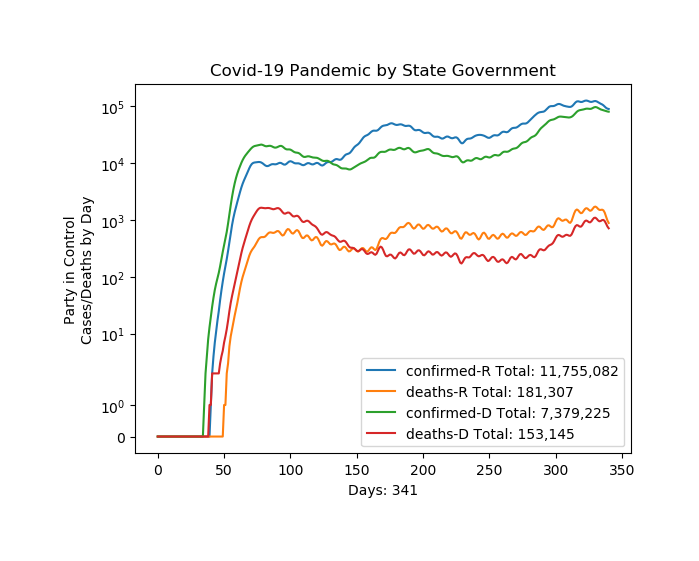
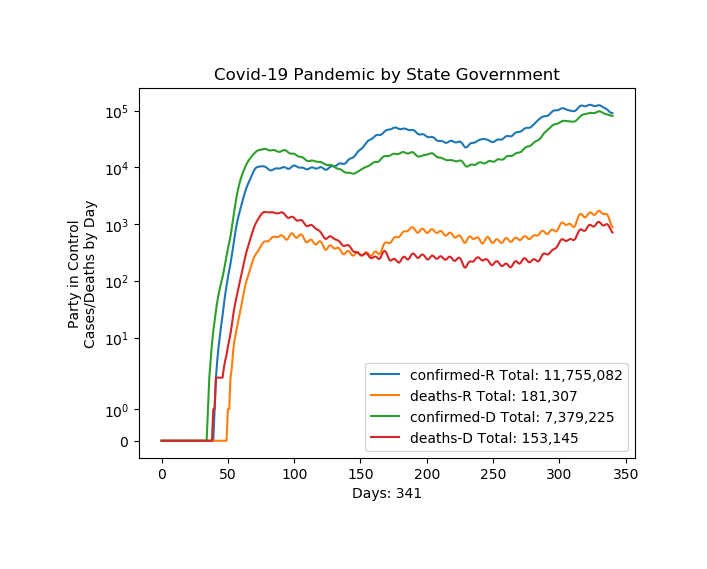
Upload Daily

Changed region(s): [[0.0901, 0.0909, 0.9013, 0.8788]]

diff --git a/CovidDLModelUSStates_v2.py b/CovidDLModelUSStates_v2.py
@@ -22,10 +22,10 @@ import random
 
 from us_state_abbrev import us_state_abbrev
 
-plotResults = True
+plotUiResults = True
 if len(sys.argv) > 1:
     print('Command Line run')
-    plotResults = False
+    plotUiResults = False
 
 g = git.cmd.Git('./COVID-19')
 print(g.pull())
@@ -320,7 +320,8 @@ class CovidCountryRegion:
     def plotResults(self, keys, data=['confirmed', 'deaths'], num=5,
                     yscale='log',
                     title='Covid-19 - Patient 0: January 21, 2020',
-                    smoothed=False, legendText='Aggregated Growth', filterLabel='New'):
+                    smoothed=False, legendText='Aggregated Growth',
+                    filterLabel='New'):
         """Plot the results for the period."""
         handles = []
         pos = 0
@@ -353,8 +354,11 @@ class CovidCountryRegion:
         plt.savefig(plotPath + 'daily_State{}.png'.format(legendText.replace(' ', '')),
                 bbox_inches="tight",
                 pad_inches=0.5 + random.uniform(0.0, 0.25))
-        if plotResults is True:
-            plt.show()
+        # if plotUiResults is True:
+        plt.show(block=False)
+        plt.clf()
+        plt.cla()
+        plt.close('all')
 
     def importCsv(self, file, index=[], rename=[], exclude=[]):
         """Import csv data based on index, column(s) to rename/exclude."""
@@ -431,9 +435,11 @@ def statePlot(states=[], key='confirmedNew', smoothed=False, name="default"):
     plt.savefig(plotPath + 'daily_State{}.png'.format(name.replace(' ', '')),
                 bbox_inches="tight",
                 pad_inches=0.5 + random.uniform(0.0, 0.25))
-    if plotResults is True:
-        plt.show()
-
+    # if plotUiResults is True:
+    plt.show(block=False)
+    plt.clf()
+    plt.cla()
+    plt.close('all')
 
 def statGovPlot(title, yscale, smoothed=False, name='Gov'):
     """Plot summary by state government."""
@@ -456,9 +462,10 @@ def statGovPlot(title, yscale, smoothed=False, name='Gov'):
     plt.savefig(plotPath + 'daily_State{}.png'.format(name.replace(' ', '')),
                 bbox_inches="tight",
                 pad_inches=0.5 + random.uniform(0.0, 0.25))
-    if plotResults is True:
-        plt.show()
-
+    plt.show(block=False)
+    plt.clf()
+    plt.cla()
+    plt.close('all')
 
 if __name__ == "__main__":
     covidDf = CovidCountryRegion(config)
@@ -468,6 +475,9 @@ if __name__ == "__main__":
     endTime = datetime.today()
     print("Start:", startTime.strftime("%d/%m/%Y %H:%M:%S"))
     print("End:", endTime.strftime("%d/%m/%Y %H:%M:%S"))
+    # print('Plot State Government')
+    # statGovPlot('Covid-19 Pandemic by State Government', yscale='symlog',
+    #             smoothed=True)
     print('Plot Aggregate')
     covidDf.plotResults(['currentAggregate'],
                         data=['confirmedNew', 'deathsNew'],
@@ -479,16 +489,13 @@ if __name__ == "__main__":
                         filterLabel='-confirmedNew')
     print('Plot Target States')
     statePlot(['Arizona', 'New Jersey', 'Tennessee', 'South Carolina',
-               'Georgia', 'Pennsylvania', 'Virginia', 'Maryland', 'Michigan'],
+                'Georgia', 'Pennsylvania', 'Virginia', 'Maryland', 'Michigan'],
               key='confirmedNew', smoothed=True, name='Focused')
     statePlot(['North Dakota', 'South Dakota', 'Iowa', 'Louisiana', 'Utah',
-               'Arkansas', 'Missouri', 'Nebraska', 'Wisconsin', 'Kentucky'],
+                'Arkansas', 'Missouri', 'Nebraska', 'Wisconsin', 'Kentucky'],
               key='confirmedNew', smoothed=True, name='Midwest')
     statePlot(['New York', 'California', 'Texas', 'Florida'],
               key='confirmedNew', smoothed=True, name='High')
-    print('Plot State Government')
-    statGovPlot('Covid-19 Pandemic by State Government', yscale='symlog',
-                smoothed=True)
     gp.add('./plots/*')
     gp.commit('-m', "Upload Daily")
     gp.push()

diff --git a/CovidDLModel.py b/CovidDLModel.py
@@ -23,10 +23,10 @@ import git
 
 from CovidData import CovidData
 
-plotResults = True
+plotUiResults = True
 if len(sys.argv) > 1:
     print('Command Line run')
-    plotResults = False
+    plotUiResults = False
 
 g = git.cmd.Git('./COVID-19')
 gp = git.cmd.Git('./')
@@ -139,8 +139,11 @@ def plotUS(inday, intoday, cdate, currentDate, cases, caseRate, growthRates,
     plt.savefig(plotPath + 'daily_{}.png'.format(plotType),
                 bbox_inches="tight",
                 pad_inches=0.5 + random.uniform(0.0, 0.25))
-    if plotResults is True:
-        plt.show()
+    # if plotUiResults is True:
+    plt.show(block=False)
+    plt.clf()
+    plt.cla()
+    plt.close()
 
 if __name__ == "__main__":
     file = "{}/{}".format(dataPath, confirmedCases)
